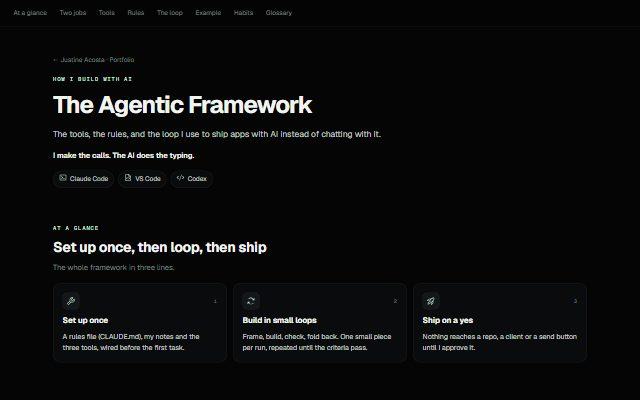
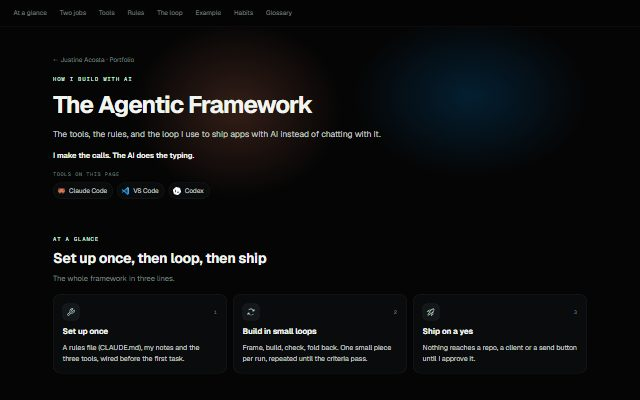
test: lively pages in every theme, motion setting, print and phone; Home screenshots re-shot

diff --git a/e2e/lively.spec.ts b/e2e/lively.spec.ts
@@ -1,0 +1,107 @@
+import { expect, test } from '@playwright/test'
+
+const PAGES = ['/build-plan.html', '/end-to-end.html', '/agentic-framework.html']
+// The same list lib/brand/reveal.js marks.
+const TARGETS = '.tools-strip,.tiles,.jobs,.timeline,.gl,.gloss dl,.ote,.cards,.rules,.phases,.stages,.closing'
+const allShown = (page: import('@playwright/test').Page) =>
+  page.evaluate((sel) => [...document.querySelectorAll(sel)].every((el) => getComputedStyle(el).opacity === '1'), TARGETS)
+const glowOf = (page: import('@playwright/test').Page) =>
+  page.locator('.hero').evaluate((el) => {
+    const s = getComputedStyle(el, '::before')
+    return { display: s.display, animation: s.animationName }
+  })
+
+for (const PAGE of PAGES) {
+  test(`${PAGE}: every logo it points at is in its sheet, and the strip shows`, async ({ page }) => {
+    await page.goto(PAGE)
+    await expect(page.getByRole('list', { name: 'Tools on this page' }).getByRole('listitem').first()).toBeVisible()
+    const missing = await page.evaluate(() => [...document.querySelectorAll('use')].map((u) => u.getAttribute('href')!).filter((h) => !document.getElementById(h.slice(1))))
+    expect(missing).toEqual([])
+  })
+
+  test(`${PAGE}: reveals what scrolls into view; the glow drifts`, async ({ page }) => {
+    await page.goto(PAGE)
+    await expect(page.locator('html')).toHaveClass(/reveal-on/)
+    await expect(page.locator('.tools-strip')).toHaveClass(/\bin\b/)
+    const last = page.locator('[data-reveal]').last()
+    await expect(last).not.toHaveClass(/\bin\b/)
+    await last.scrollIntoViewIfNeeded()
+    await expect(last).toHaveClass(/\bin\b/)
+    await expect.poll(() => last.evaluate((el) => getComputedStyle(el).opacity)).toBe('1')
+    expect(await glowOf(page)).toEqual({ display: 'block', animation: 'halo' })
+  })
+
+  test(`${PAGE}: hides nothing under reduced motion or with JavaScript off, and the glow holds still`, async ({ browser }) => {
+    for (const opts of [{ reducedMotion: 'reduce' as const }, { javaScriptEnabled: false }]) {
+      const ctx = await browser.newContext(opts)
+      const page = await ctx.newPage()
+      await page.goto(PAGE)
+      await expect(page.locator('html')).not.toHaveClass(/reveal-on/)
+      expect(await allShown(page), JSON.stringify(opts)).toBe(true)
+      if (opts.reducedMotion) expect((await glowOf(page)).animation).toBe('none')
+      await ctx.close()
+    }
+  })
+
+  test(`${PAGE}: prints everything, without the glow, in the light logos`, async ({ browser }) => {
+    const ctx = await browser.newContext({ colorScheme: 'dark' })
+    const page = await ctx.newPage()
+    await page.goto(PAGE)
+    await page.emulateMedia({ media: 'print' })
+    expect(await allShown(page)).toBe(true)
+    expect((await glowOf(page)).display).toBe('none')
+    for (const dark of await page.locator('.logo-dark').all()) await expect(dark).toBeHidden()
+    await ctx.close()
+  })
+
+  test(`${PAGE}: the site’s High contrast and Reduce motion still apply when switched on after load`, async ({ page }) => {
+    await page.goto(PAGE)
+    const tinted = page.locator('.k-trigger .node-card').first()
+    const plain = page.locator('.k-action .node-card').first()
+    const bg = (l: typeof tinted) => l.evaluate((el) => getComputedStyle(el).backgroundColor)
+    expect(await bg(tinted)).not.toBe(await bg(plain))
+    await page.evaluate(() => {
+      document.documentElement.dataset.a11yContrast = 'true'
+      document.documentElement.dataset.a11yMotion = 'true'
+    })
+    expect(await bg(tinted)).toBe(await bg(plain))
+    expect((await glowOf(page)).display).toBe('none')
+    await expect(page.locator('.logo-badge').first()).toBeAttached()
+    expect(await allShown(page)).toBe(true)
+  })
+
+  test(`${PAGE}: at phone width nothing scrolls sideways and the strip wraps inside the page`, async ({ page }) => {
+    await page.setViewportSize({ width: 390, height: 844 })
+    await page.goto(PAGE)
+    expect(await page.evaluate(() => document.documentElement.scrollWidth)).toBeLessThanOrEqual(390)
+    const strip = (await page.locator('.tools-strip').boundingBox())!
+    expect(strip.x + strip.width).toBeLessThanOrEqual(390)
+  })
+}
+
+test('opened at a hash, the target section is revealed once the jump lands', async ({ page }) => {
+  await page.goto('/end-to-end.html#glossary')
+  await expect(page.locator('#glossary dl')).toHaveClass(/\bin\b/)
+  await expect.poll(() => page.locator('#glossary dl').evaluate((el) => getComputedStyle(el).opacity)).toBe('1')
+})
+
+test('mono logos and Codex follow the theme', async ({ browser }) => {
+  for (const scheme of ['light', 'dark'] as const) {
+    const ctx = await browser.newContext({ colorScheme: scheme })
+    const page = await ctx.newPage()
+    await page.goto('/end-to-end.html')
+    const body = await page.locator('body').evaluate((el) => getComputedStyle(el).backgroundColor)
+    for (const mono of await page.locator('.tool-chip .logo.mono').all()) expect(await mono.evaluate((el) => getComputedStyle(el).color), scheme).not.toBe(body)
+    const codex = page.locator('.tool-chip').filter({ hasText: 'Codex' })
+    await expect(codex.locator(scheme === 'dark' ? '.logo-dark' : '.logo-light')).toBeVisible()
+    await expect(codex.locator(scheme === 'dark' ? '.logo-light' : '.logo-dark')).toBeHidden()
+    await ctx.close()
+  }
+})
+
+test('a badge glows in its brand colour while a ball lights its step', async ({ page }) => {
+  await page.goto('/agentic-framework.html#loop')
+  await expect
+    .poll(() => page.evaluate(() => [...document.querySelectorAll('.node.lit .logo-badge')].some((b) => getComputedStyle(b).boxShadow !== 'none')), { timeout: 15_000 })
+    .toBe(true)
+})

diff --git a/tests/no-raw-colors.test.ts b/tests/no-raw-colors.test.ts
@@ -4,7 +4,9 @@ import { expect, it } from 'vitest'
 
 const ROOTS = ['app', 'components', 'data', 'hooks', 'lib']
 // Emails cannot read CSS variables; lib/emails.ts copies the light tokens as hex, and tests/emails.test.ts keeps them in step.
-const ALLOWED = new Set(['app/globals.css', 'lib/emails.ts'])
+// The standalone pages' tool brand colours (lib/brand/tools.ts) belong to the tools, not to Kraft, and their kind tints
+// (lib/brand/lively.ts) are a fixed palette checked for contrast in tests/brand-lively.test.ts.
+const ALLOWED = new Set(['app/globals.css', 'lib/emails.ts', 'lib/brand/tools.ts', 'lib/brand/lively.ts'])
 const RAW_COLOR = /#[0-9a-fA-F]{3,8}\b|rgba?\(\s*\d/g
 
 function walk(dir: string): string[] {
